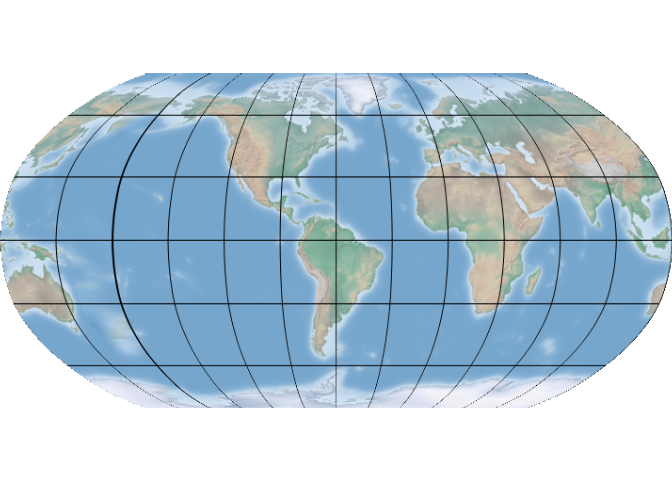
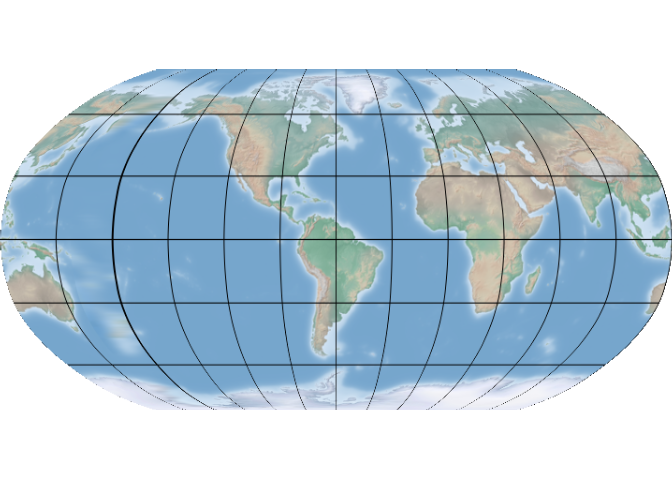
code simplify and improve test coverage

diff --git a/README.md b/README.md
@@ -78,18 +78,15 @@ library(projWiz)
 world_lonlat = rast(world_shaded_relief)
 ext(world_lonlat) <- c(-180,180,-90,90)
 crs(world_lonlat) <- "epsg:4326"
+# Draw the graticule by hand
 world_lonlat[1:360,c(1,1:12 * 60),1:3] <- 0
 world_lonlat[c(1,1:6 * 60),1:720,1:3] <- 0
-world_lonlat = crop(world_lonlat, ext(-180, 180, -86, 86))
 
 # This step is for reprojecting to generating new world map projection and re-project
 central_longitude = -60
-selected_world_proj_type = world_proj_list$compromise$barrel_shape$Robinson
-
-
-new_world_proj = proj_world(selected_world_proj_type, central_longitude)
-
-plotRGB(project(world_lonlat, new_world_proj), colNA="transparent")
+new_world_proj = proj_world(world_proj_list$compromise$barrel_shape$Robinson, 
+                            central_longitude)
+plotRGB(project(world_lonlat, new_world_proj))
 ```
 
 <img src="man/figures/README-unnamed-chunk-3-1.png" width="100%" />
